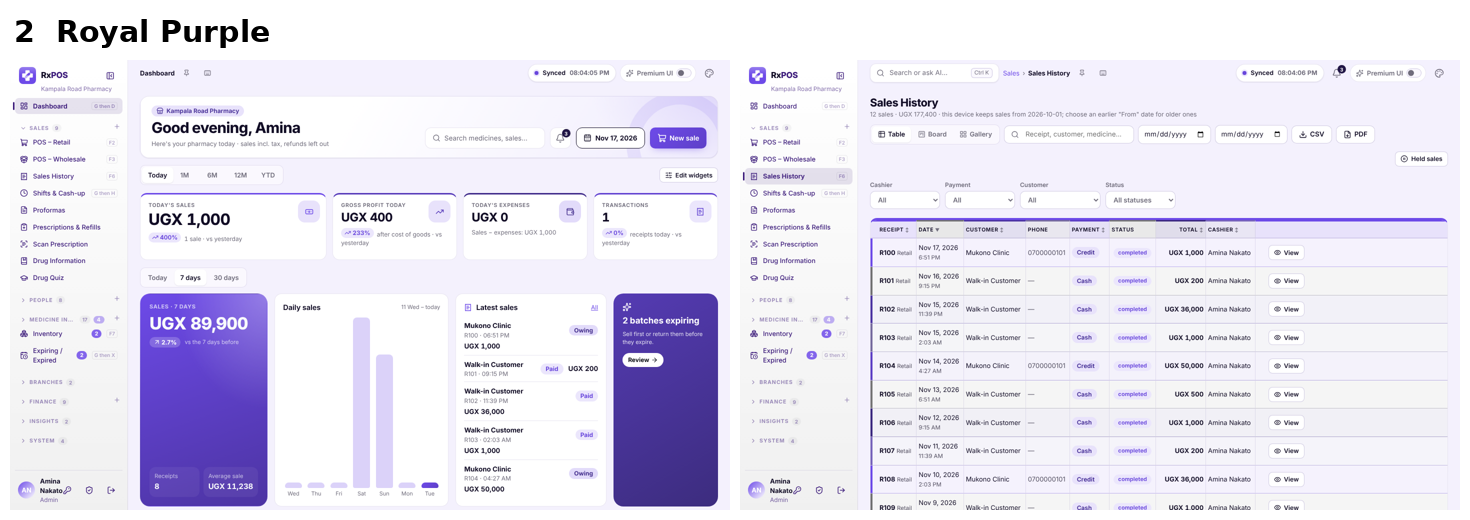
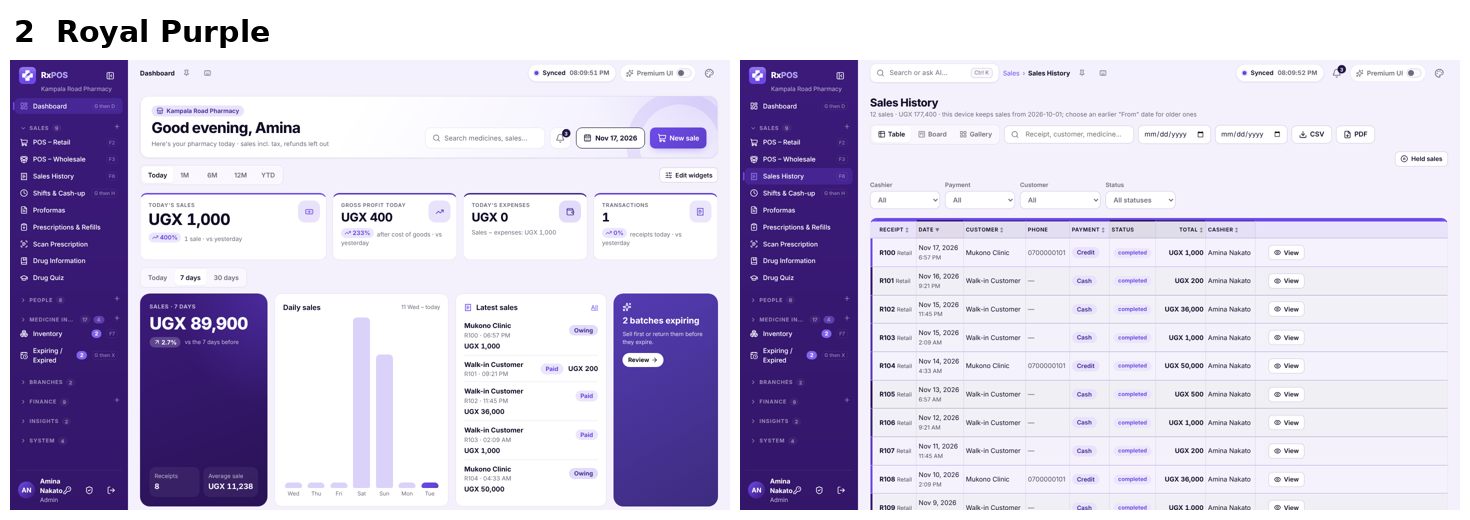
Royal Purple: back to a deep purple menu with white words (the owner's review)
Claude-Session: https://claude.ai/code/session_015uMCYZdrYXjtxk4scNeyiP

Changed region(s): [[0.0, 0.0923, 0.1837, 0.9846], [0.4898, 0.0923, 0.6122, 0.9846]]

diff --git a/src/themes.js b/src/themes.js
@@ -55,7 +55,7 @@ const duo = (id, name, group, { c1, c2, side = c1, sideText, base = 'light', ins
 export const THEMES = [
   // Bold sidebars: the menu in colour 1, the pages tinted with colour 2
   duo('electric-blue', 'Electric Blue', 'Bold sidebars', { c1: '#0a4dff', c2: '#dfe8ff', strong: true, inspired: 'Bright blue menu, blue-washed pages' }),
-  duo('royal-purple', 'Royal Purple', 'Bold sidebars', { c1: '#6d4ae8', c2: '#f4f1fd', side: '#ffffff', sideText: '#3b1a7a', inspired: 'White menu with deep purple words, violet actions' }),
+  duo('royal-purple', 'Royal Purple', 'Bold sidebars', { c1: '#6d4ae8', c2: '#f4f1fd', side: '#3b1a7a', inspired: 'Deep purple menu with white words, violet actions' }),
   duo('forest-green', 'Forest Green', 'Bold sidebars', { c1: '#1e8c4e', c2: '#dcefe3', strong: true, inspired: 'Green menu, green-washed pages' }),
   // Dark sidebars and the dark theme
   duo('charcoal-lime', 'Lime Charcoal', 'Dark sidebars', { c1: '#1f1f2a', c2: '#eef7d6', side: '#c8f169', sideText: '#1f1f2a', strong: true, inspired: 'Lime menu with charcoal words, charcoal actions' }),
